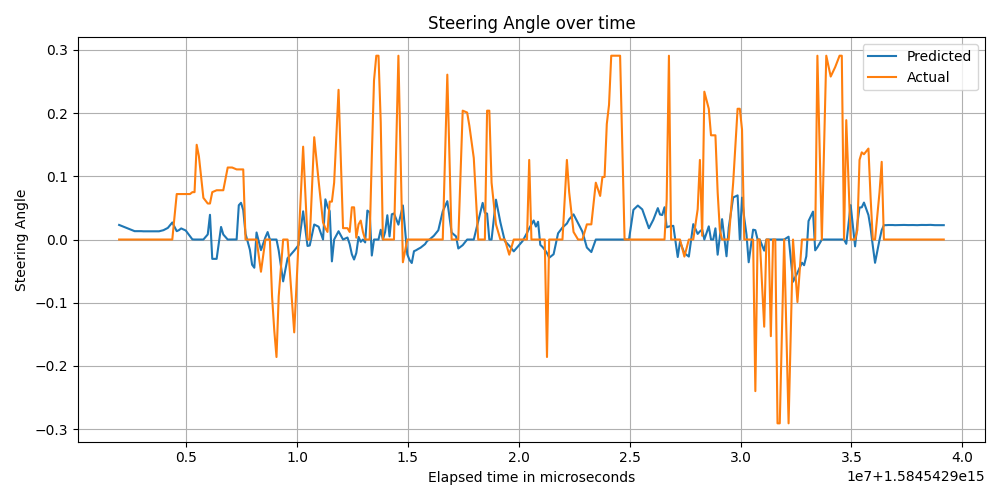
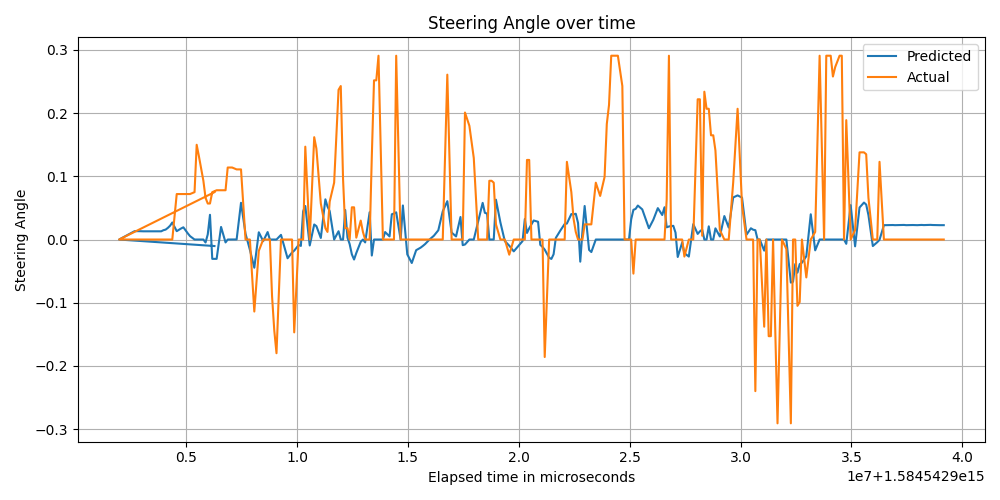
fix: merge conflicts in image_processor were not resolved in earlier commit

diff --git a/src/image_processor.cpp b/src/image_processor.cpp
@@ -77,39 +77,12 @@ void ImageProcessor::process_frame() {
   m_shared_memory->wait();
   cv::Mat image;
 
-    {
-        m_shared_memory->lock();
-        if (!m_shared_memory->valid() || !m_shared_memory->data()) {
-            logger->error("ImageProcessor: Invalid shared memory data");
-            m_shared_memory->unlock();
-            return;
-        }
-
-        cv::Mat wrapped(m_config.height, m_config.width, CV_8UC4, m_shared_memory->data());
-        image = wrapped.clone();
-        auto sample_time_point = cluon::time::toMicroseconds(m_shared_memory->getTimeStamp().second);
-        m_shared_memory->unlock();
-
-        if (image.empty()) {
-            logger->error("ImageProcessor: Cloned image is empty");
-            return;
-        }
-
-        if (image.channels() == 4) {
-            cv::cvtColor(image, image, cv::COLOR_BGRA2BGR);
-        }
-
-        if (m_detector) {
-            ColorClassifiedCones detected_objects = m_detector->detect(image);
-
-            cv::Point2f midpoint = m_path_finder->find_midpoint(detected_objects, image);
-            cv::circle(image, midpoint, 3, cv::Scalar(255, 255, 255), cv::FILLED);
-
-            float steering_angle = m_path_finder->calculate_steering_angle(midpoint, image);
-            logger->info("Calculated steering angle: {}", steering_angle);
-        }
-
-        annotate_image(image, sample_time_point);
+  {
+    m_shared_memory->lock();
+    if (!m_shared_memory->valid() || !m_shared_memory->data()) {
+      logger->error("ImageProcessor: Invalid shared memory data");
+      m_shared_memory->unlock();
+      return;
     }
 
     cv::Mat wrapped(m_config.height, m_config.width, CV_8UC4,
@@ -132,10 +105,7 @@ void ImageProcessor::process_frame() {
     float steering_angle = 0.0f;
 
     if (m_detector) {
-      std::vector<cv::Rect> detected_objects = m_detector->detect(image);
-      for (auto object : detected_objects) {
-        cv::rectangle(image, object, cv::Scalar(0, 255, 255), 1);
-      }
+      ColorClassifiedCones detected_objects = m_detector->detect(image);
 
       cv::Point2f midpoint =
           m_path_finder->find_midpoint(detected_objects, image);
@@ -144,19 +114,21 @@ void ImageProcessor::process_frame() {
       steering_angle = m_path_finder->calculate_steering_angle(midpoint, image);
       logger->info("Calculated steering angle: {}", steering_angle);
     }
+
     if (m_gs_handler) {
       actual_steering = m_gs_handler->get_actual_steering_angle();
     }
 
     annotate_image(image, sample_time_point, actual_steering, steering_angle);
     log_steering(sample_time_point, actual_steering, steering_angle);
-  }
 
-  if (m_config.is_verbose) {
-    cv::imshow(m_config.shared_memory_name, image);
-    cv::waitKey(1);
+    if (m_config.is_verbose) {
+      cv::imshow(m_config.shared_memory_name, image);
+      cv::waitKey(1);
+    }
   }
 }
+
 // Added logging in the image_processor since all the variables needed were here
 // already
 void ImageProcessor::log_steering(int64_t timestamp, float actual,
